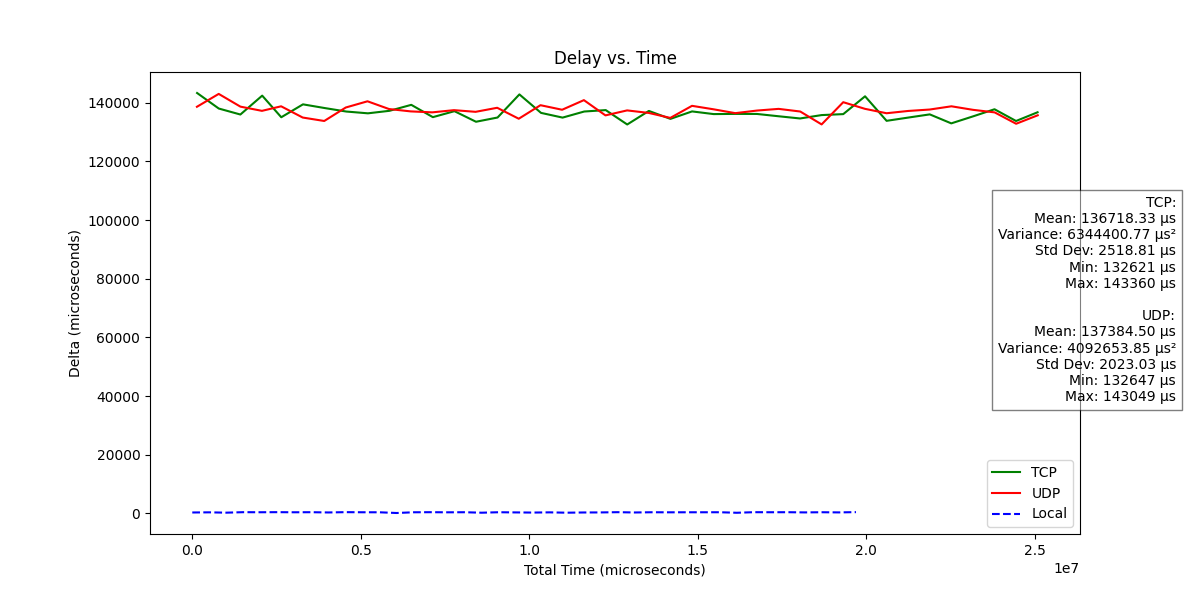
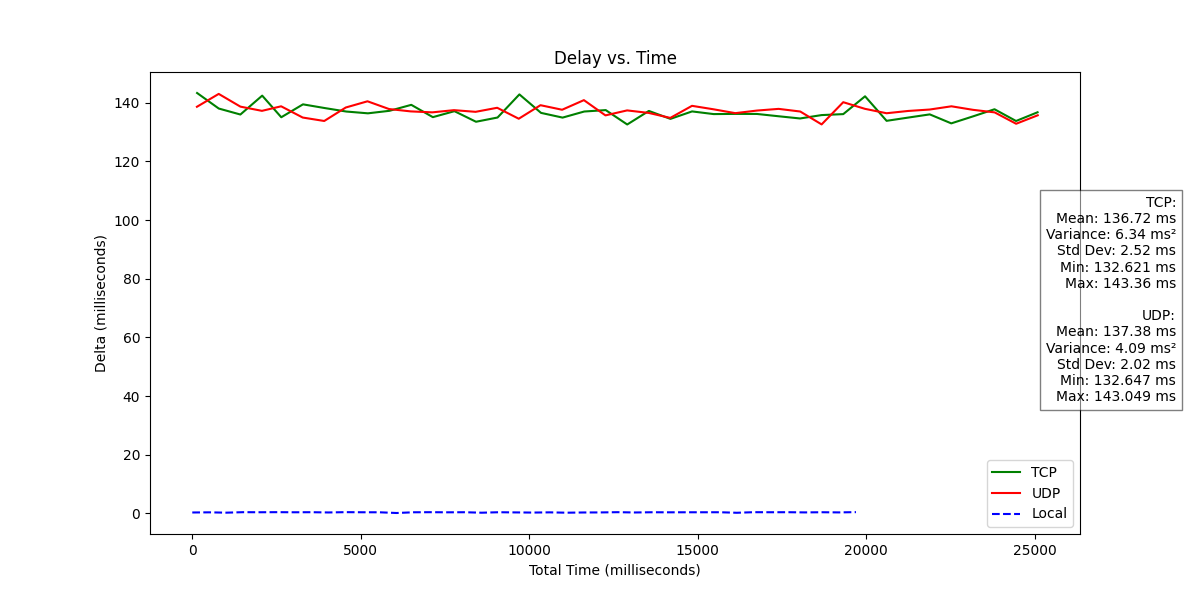
change to milliseconds

diff --git a/LAB7/analysis/plot_delay.py b/LAB7/analysis/plot_delay.py
@@ -19,14 +19,14 @@ def parse_results(file_path, delimiter=','):
         delimiter (str): The delimiter used in the file to separate values.
         
     Returns:
-        list of tuples: A list of (total_time, delta) tuples.
+        list of tuples: A list of (total_time, delta) tuples in milliseconds.
     """
     results = []
     with open(file_path, 'r') as file:
         for line in file:
             parts = line.strip().split(delimiter)
-            total_time = int(parts[0].split(': ')[1].strip().split()[0])
-            delta = int(parts[1].split(': ')[1].strip().split()[0])
+            total_time = int(parts[0].split(': ')[1].strip().split()[0]) / 1000  # Convert from microseconds to milliseconds
+            delta = int(parts[1].split(': ')[1].strip().split()[0]) / 1000  # Convert from microseconds to milliseconds
             results.append((total_time, delta))
     return results
 
@@ -84,25 +84,25 @@ def plot_results(local_results, tcp_results, udp_results, show_local, dpi):
     udp_stats = compute_statistics(udp_results)
 
     # Add labels and title
-    plt.xlabel('Total Time (microseconds)')
-    plt.ylabel('Delta (microseconds)')
+    plt.xlabel('Total Time (milliseconds)')
+    plt.ylabel('Delta (milliseconds)')
     plt.title('Delay vs. Time')
     plt.legend()
 
     # Display statistics on the plot
     stats_text = (
         f"TCP:\n"
-        f"Mean: {tcp_stats['mean']:.2f} µs\n"
-        f"Variance: {tcp_stats['variance']:.2f} µs²\n"
-        f"Std Dev: {tcp_stats['std_dev']:.2f} µs\n"
-        f"Min: {tcp_stats['min']} µs\n"
-        f"Max: {tcp_stats['max']} µs\n\n"
+        f"Mean: {tcp_stats['mean']:.2f} ms\n"
+        f"Variance: {tcp_stats['variance']:.2f} ms²\n"
+        f"Std Dev: {tcp_stats['std_dev']:.2f} ms\n"
+        f"Min: {tcp_stats['min']} ms\n"
+        f"Max: {tcp_stats['max']} ms\n\n"
         f"UDP:\n"
-        f"Mean: {udp_stats['mean']:.2f} µs\n"
-        f"Variance: {udp_stats['variance']:.2f} µs²\n"
-        f"Std Dev: {udp_stats['std_dev']:.2f} µs\n"
-        f"Min: {udp_stats['min']} µs\n"
-        f"Max: {udp_stats['max']} µs"
+        f"Mean: {udp_stats['mean']:.2f} ms\n"
+        f"Variance: {udp_stats['variance']:.2f} ms²\n"
+        f"Std Dev: {udp_stats['std_dev']:.2f} ms\n"
+        f"Min: {udp_stats['min']} ms\n"
+        f"Max: {udp_stats['max']} ms"
     )
     
     plt.gcf().text(0.98, 0.5, stats_text, fontsize=10, va='center', ha='right', bbox=dict(facecolor='white', alpha=0.5))
